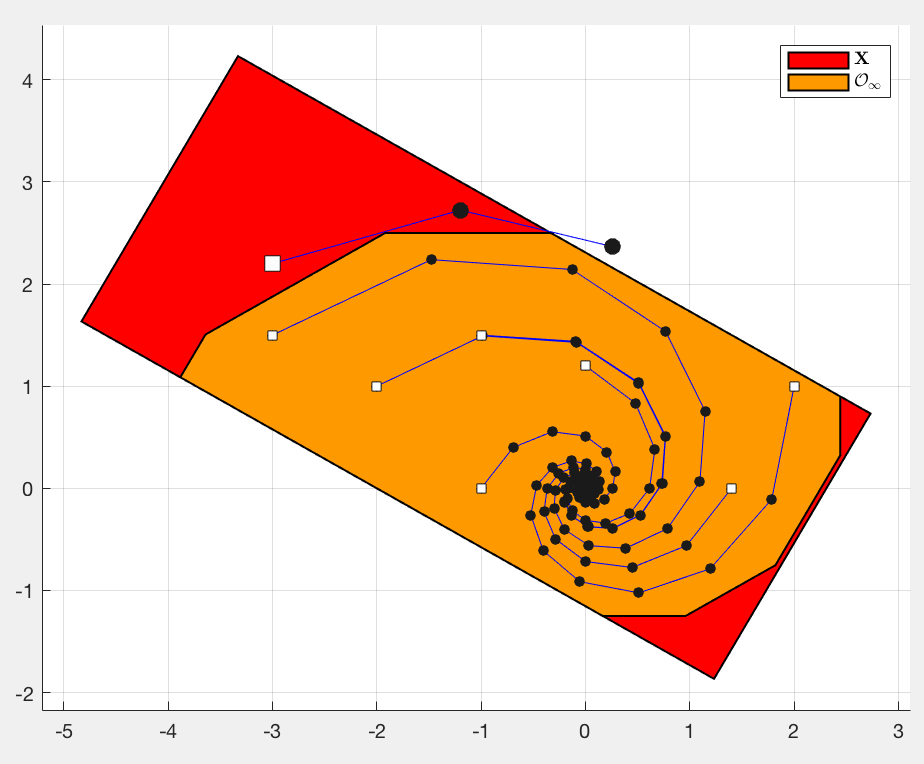
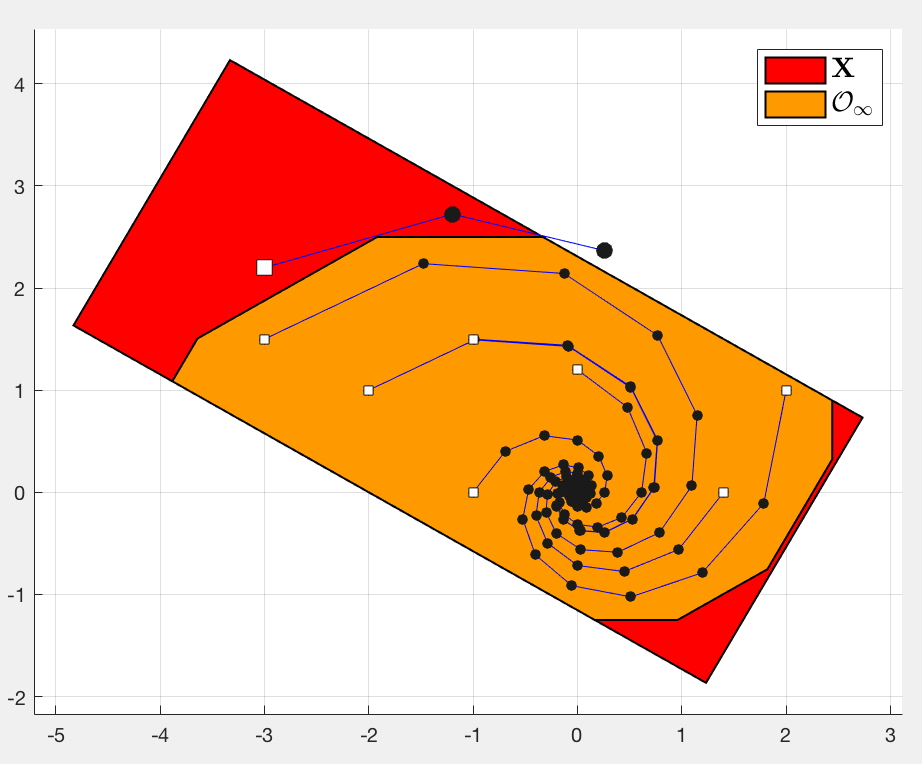
Implements exo 2

diff --git a/E3/exo2.m b/E3/exo2.m
@@ -1,0 +1,67 @@
+%% MPC - Group 2 
+ %  Script for EXERCICE 2 
+ clc;
+ clear all;
+ close all;
+ 
+ % some definitions 
+ alpha = pi/6;
+ beta = 0.8; 
+ A = [  
+        cos(alpha) , sin(alpha) ; 
+        -sin(alpha), cos(alpha)
+     ]*beta;
+ B = [0.5 0.5]';
+ H = [ 
+        cos(pi/3)  , sin(pi/3)  ;
+        -cos(pi/3) , -sin(pi/3) ;
+        sin(pi/3)  , -cos(pi/3) ;
+        -sin(pi/3) , cos(pi/3)  ;
+     ];
+ h = [2 1 2 5]';
+ G = [-1 1]'; 
+ g = 0.5*[1 1]';
+ 
+ % State space 
+ X = Polyhedron(H,h);
+ 
+  %% Task 1 : compute the largest control invariant set of the constraint system
+ convergence = false;   % convergence flag
+ Oc = X;                 % current estimate for O_infinity
+
+ % computing largest invariant set
+ while (~convergence)
+     Op = projection(Polyhedron([ Oc.A*A,Oc.A*B ; zeros(2,2),G ], [Oc.b;g]),(1:2) );   % current Omega pre-set
+     On = Polyhedron( [Op.A;Oc.A] , [Op.b;Oc.b] );                       % update rule
+     convergence = (Oc == On);                                           % convergence check
+     Oc = On;                                                            % update 
+ end
+ 
+ plot([X,Oc]); hold on;
+ l = legend('$\bf{X}$','$\mathcal{C}_\infty$');
+ set(l,'Interpreter','latex','FontSize',14);
+ 
+ 
+ %% Task 2 : compute the optimal LQR controller and computes its maximum invariant set 
+ 
+ Q = eye(2);
+ R = 1;
+ K = -dlqr(A,B,Q,R); % optimal LQR gain 
+ 
+ % Defines new constraint set 
+ X_lqr = Polyhedron([X.A;G*K],[X.b;g]);
+ convergence = false;   % convergence flag
+ O_lqr = X_lqr;         % current estimate for O_infinity
+
+ % computing largest invariant set
+ while (~convergence)
+     Op = Polyhedron(O_lqr.A*A,O_lqr.b);                    % current Omega pre-set
+     On = Polyhedron( [Op.A;O_lqr.A] , [Op.b;O_lqr.b] );    % update rule
+     convergence = (O_lqr == On);                           % convergence check
+     O_lqr = On;                                            % update 
+ end
+ figure;
+ plot([X,Oc,X_lqr,O_lqr]); hold on;
+ l = legend('$\bf{X}$','$\mathcal{C}_\infty$','$\bf{X}^{lqr}$','$\mathcal{O}_\infty^{lqr}$');
+ set(l,'Interpreter','latex','FontSize',14);
+ 

diff --git a/E3/ex1.m b/E3/ex1.m
@@ -33,11 +33,10 @@
      convergence = (O == On);                       % convergence check
      O = On;                                        % update 
  end
- O.plot;
  
  plot([X,O]); hold on;
  l = legend('$\bf{X}$','$\mathcal{O}_\infty$');
- set(l,'Interpreter','latex');
+ set(l,'Interpreter','latex','FontSize',14);
  
  %% Task 2 : trajectory plots
  
